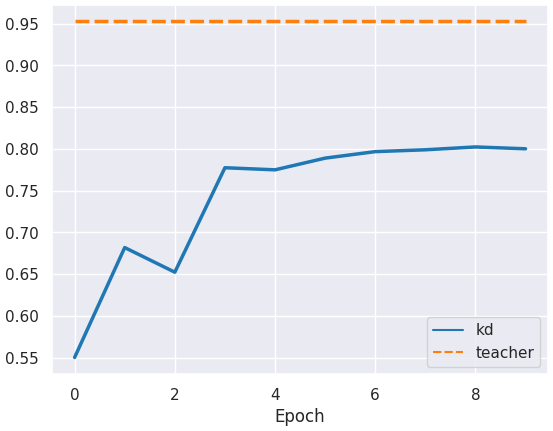
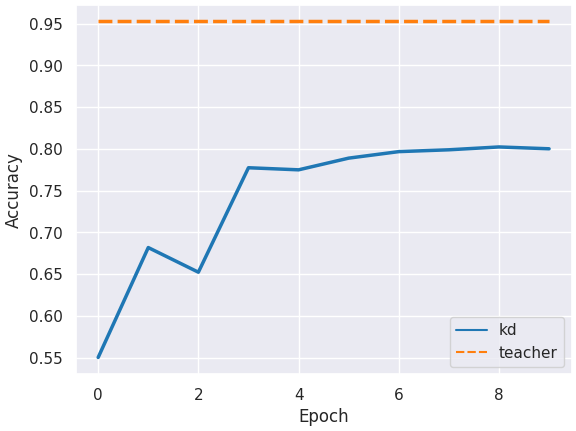
preliminary results

diff --git a/plot.py b/plot.py
@@ -131,13 +131,13 @@ def plot_results(data_dir, plot_dir=PLOT_DIR, test_id=""):
     # sns.lineplot(data=df, palette="tab10",
     #              style="event", dashes=DASH_STYLES)
 
-    sns.lineplot(data=df, palette="tab10",
-                 linewidth=2.5)
+    sns.lineplot(data=df, palette="tab10", linewidth=2.5)
     # sns.lineplot(data=df, palette="tab10")
     plot_dir = Path(plot_dir).joinpath(test_id)
     util.check_dir(plot_dir)
     plt_name = f"{epochs}_epochs_{teacher_name}_to_{student_name}"
     plt_name = Path(plot_dir).joinpath(plt_name)
+    plt.ylabel('Accuracy')
     plt.savefig(f"{plt_name}.pdf", bbox_inches='tight', pad_inches=0.05)
     plt.savefig(f"{plt_name}.png", bbox_inches='tight', pad_inches=0.05)
     plt.gcf().clear()
@@ -145,5 +145,6 @@ def plot_results(data_dir, plot_dir=PLOT_DIR, test_id=""):
 
 if __name__ == '__main__':
     args = parse_arguments()
-    plot_results(args.data_dir)
-    # plot_results("results/clzz/cifar10", plot_dir=PLOT_DIR, test_id="clzz")
+    # plot_results(args.data_dir)
+    # To plot a specific result
+    plot_results("results/clzz/cifar10", plot_dir=PLOT_DIR, test_id="clzz")

diff --git a/trainer.py b/trainer.py
@@ -136,7 +136,6 @@ class Trainer():
     def save(self, epoch, name):
         torch.save({"model_state_dict": self.net.state_dict(), }, name)
 
-
 class BaseTrainer(Trainer):
 
     def calculate_loss(self, data, target):
